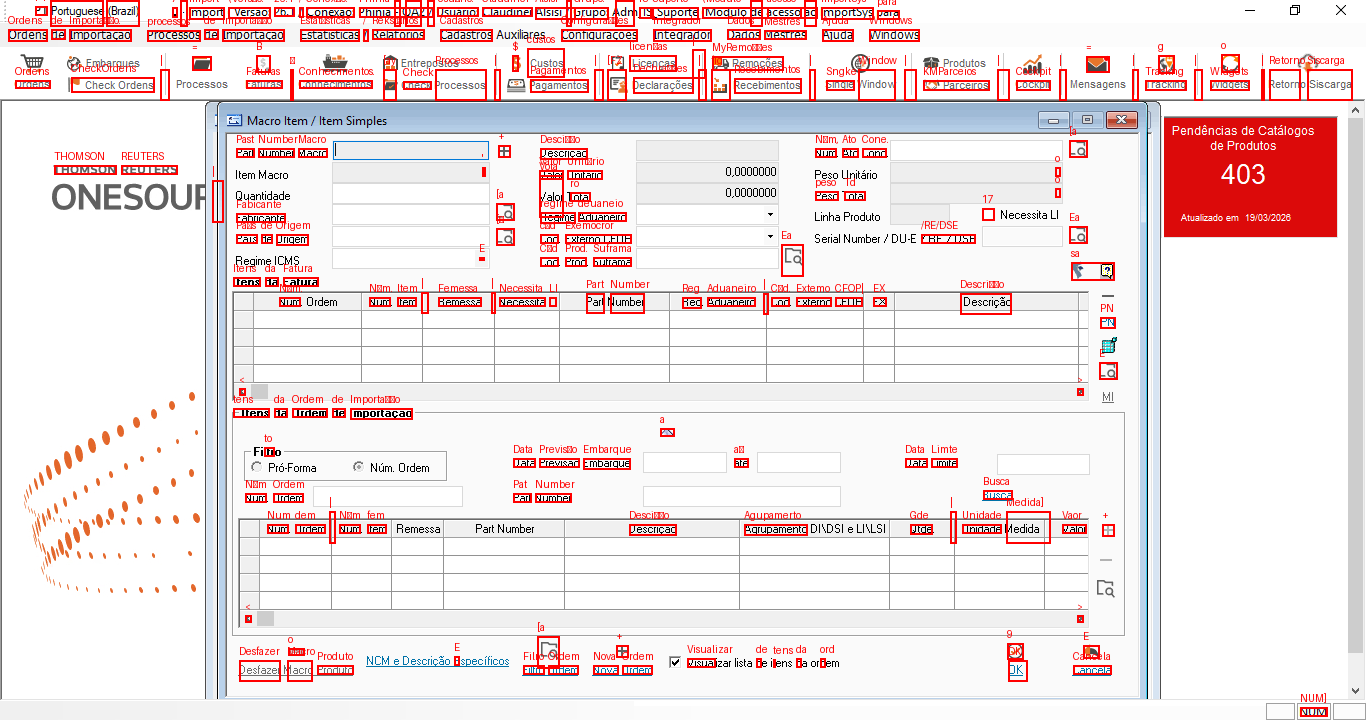
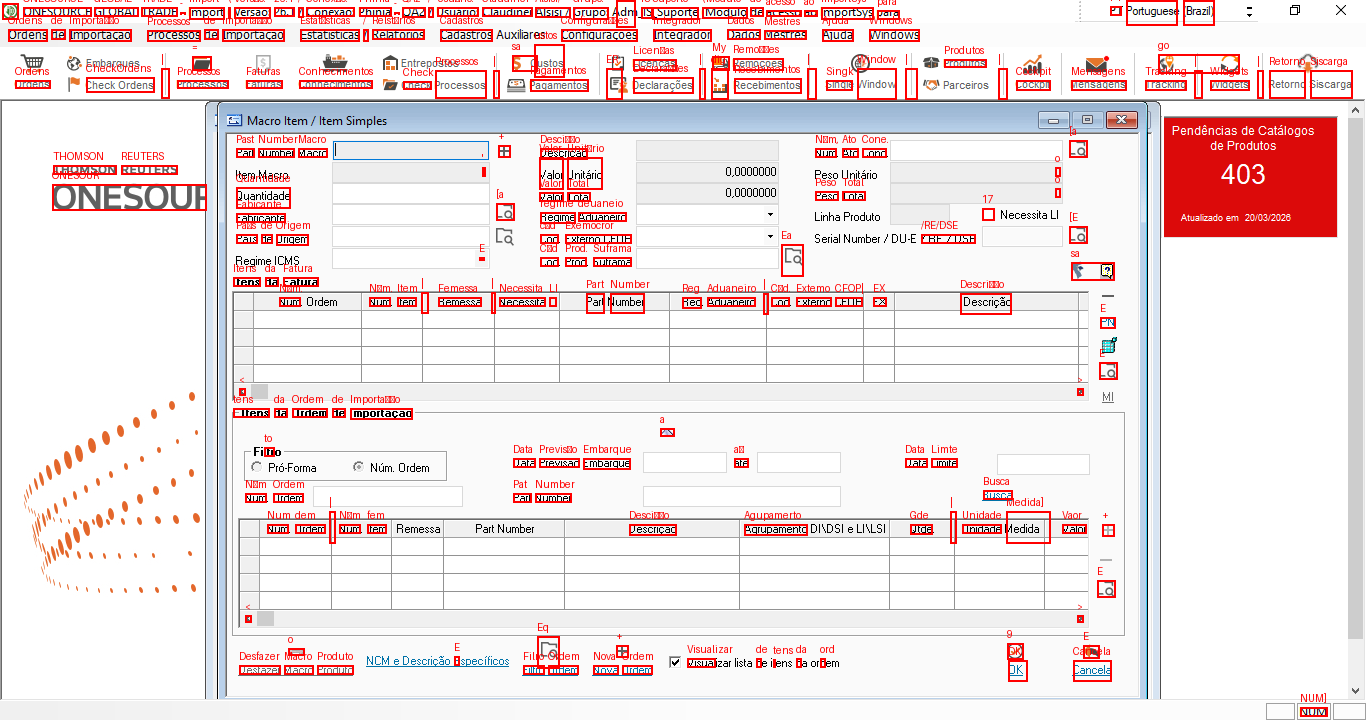
criacao da main.py, ajuste na coluna quantidade para melhor visualizacao OCR

diff --git a/main.py b/main.py
@@ -1,9 +1,81 @@
-# selecionando_elementos.ipynb
-# código para chamar o script
+# ============================================================
+# CÉLULA: ORQUESTRADOR PRINCIPAL (main.py)
+# ============================================================
+import subprocess
+import sys
+import time
 
-# Aguarda o download completar
-time.sleep(5)  # Ajuste conforme necessário
+print("="*60)
+print("🚀 INICIANDO FLUXO DE AUTOMAÇÃO PRINCIPAL")
+print("="*60)
 
-# executa_citrix.ipynb
-# código para chamar o script
+# ─────────────────────────────────────────────────────────
+# 1. Executa login_sistema.py
+# ─────────────────────────────────────────────────────────
+print("\n📍 EXECUTANDO: login_sistema.py")
+print("-"*60)
+try:
+    resultado_login = subprocess.run(
+        [sys.executable, "login_sistema.py"],
+        capture_output=False,  # Mostra o output em tempo real no terminal
+        text=True,
+        check=True             # Levanta exceção se o script retornar erro
+    )
+    print("✅ login_sistema.py concluído com sucesso!")
+except subprocess.CalledProcessError as e:
+    print(f"❌ login_sistema.py falhou com erro: {e}")
+    print(f"   Stderr: {e.stderr}")
+    sys.exit(1) # Sai do programa principal com código de erro
+except Exception as e:
+    print(f"❌ Erro inesperado ao executar login_sistema.py: {e}")
+    sys.exit(1)
 
+# ─────────────────────────────────────────────────────────
+# 2. Executa executa_citrix.py
+# ─────────────────────────────────────────────────────────
+print("\n📍 EXECUTANDO: executa_citrix.py")
+print("-"*60)
+try:
+    resultado_citrix = subprocess.run(
+        [sys.executable, "executa_citrix.py"],
+        capture_output=False,
+        text=True,
+        check=True
+    )
+    print("✅ executa_citrix.py concluído com sucesso!")
+except subprocess.CalledProcessError as e:
+    print(f"❌ executa_citrix.py falhou com erro: {e}")
+    print(f"   Stderr: {e.stderr}")
+    sys.exit(1)
+except Exception as e:
+    print(f"❌ Erro inesperado ao executar executa_citrix.py: {e}")
+    sys.exit(1)
+
+# Pequena pausa para o Citrix Workspace iniciar e a janela 'Módulos' aparecer
+print("\n⏳ Aguardando o Citrix Workspace iniciar e a janela 'Módulos' aparecer...")
+time.sleep(15) # Ajuste este tempo conforme a velocidade de inicialização do Citrix na sua máquina
+
+# ─────────────────────────────────────────────────────────
+# 3. Executa automation.py
+# ─────────────────────────────────────────────────────────
+print("\n📍 EXECUTANDO: automation.py")
+print("-"*60)
+try:
+    resultado_automation = subprocess.run(
+        [sys.executable, "automation.py"],
+        capture_output=False,
+        text=True,
+        check=True
+    )
+    print("✅ automation.py concluído com sucesso!")
+except subprocess.CalledProcessError as e:
+    print(f"❌ automation.py falhou com erro: {e}")
+    print(f"   Stderr: {e.stderr}")
+    sys.exit(1)
+except Exception as e:
+    print(f"❌ Erro inesperado ao executar automation.py: {e}")
+    sys.exit(1)
+
+print("\n" + "="*60)
+print("🎉 FLUXO DE AUTOMAÇÃO PRINCIPAL CONCLUÍDO COM SUCESSO!")
+print("="*60)

diff --git a/models/automacao_cliques.py b/models/automacao_cliques.py
@@ -1311,3 +1311,36 @@ class AutomacaoOCR:
 
         print(f"❌ Timeout: Popup 'Informação' não apareceu em {timeout}s.")
         return False
+    
+    def arrastar_coluna_quantidade(self, x_inicio_rel, y_inicio_rel, x_fim_rel, y_fim_rel, duracao_arraste=0.5, pausar=1.0):
+        """
+        Simula o clique e arraste para ajustar a largura de uma coluna na grade.
+        Útil para aumentar o campo de visualização da coluna 'Quantidade'.
+
+        Args:
+            x_inicio_rel, y_inicio_rel: Coordenadas relativas do ponto de início do arraste (onde o clique é segurado).
+            x_fim_rel, y_fim_rel: Coordenadas relativas do ponto final do arraste.
+            duracao_arraste: Duração do movimento de arraste em segundos.
+            pausar: Tempo de espera após o arraste.
+
+        Returns:
+            True se a operação foi executada, False se a janela não estiver focada.
+        """
+        print(f"\n↔ Ajustando largura da coluna (arrastar de ({x_inicio_rel}, {y_inicio_rel}) para ({x_fim_rel}, {y_fim_rel}))...")
+
+        if not self.captura.janela_atual:
+            print("❌ Nenhuma janela principal selecionada.")
+            return False
+
+        x_inicio_abs, y_inicio_abs = self.captura.obter_posicao_absoluta(x_inicio_rel, y_inicio_rel)
+        x_fim_abs, y_fim_abs       = self.captura.obter_posicao_absoluta(x_fim_rel, y_fim_rel)
+
+        print(f"🖱  Clicando e arrastando de ({x_inicio_abs}, {y_inicio_abs}) para ({x_fim_abs}, {y_fim_abs})...")
+
+        pyautogui.moveTo(x_inicio_abs, y_inicio_abs) # Move o mouse para o ponto inicial
+        pyautogui.dragTo(x_fim_abs, y_fim_abs, duration=duracao_arraste, button='left') # Clica, segura e arrasta
+
+        time.sleep(pausar)
+        self.limpar_cache_ocr()
+        print("✓ Arraste da coluna executado!")
+        return True

diff --git a/load_invoice.py b/load_invoice.py
@@ -12,10 +12,10 @@ from models.automacao_cliques import AutomacaoOCR
 gerenciador = GerenciadorItens(base_url='https://n8n2.titoonline.com.br')
 
 # Carrega os itens
-if not gerenciador.carregar_do_n8n(fatura_id=22):
+if not gerenciador.carregar_do_n8n(fatura_id=25):
     raise Exception("❌ Falha ao carregar itens do N8N")
 # ─── LIMITADOR DE TESTE ───────────────────────────────────
-gerenciador.itens = gerenciador.itens  [:4]# ← Pega apenas os 5 primeiross
+gerenciador.itens = gerenciador.itens [:2]# ← Pega apenas os 5 primeiross
 # CONTROLE DE ITENS
 print(f"✅ {gerenciador.total_itens()} itens prontos para processar")
 
@@ -45,6 +45,9 @@ num_ordem_fatura = gerenciador.get_num_ordem(gerenciador.item_atual())
 #time.sleep(1)
 # Preenche o campo de ordem UMA vez antes do loop
 auto_ocr.preencher_campo_por_clipboard(342, 494, num_ordem_fatura, pausar=1)
+# As coordenadas (955, 525) e (965, 525) são baseadas na tela 1366x768
+print("\n Ajustando largura da coluna 'Quantidade' na grade...")
+auto_ocr.arrastar_coluna_quantidade(955, 525, 972, 525, duracao_arraste=0.3, pausar=0.5)
 
 while gerenciador.tem_proximo():
 
@@ -166,10 +169,11 @@ print(f"❌ Não encontrados: {len(itens_nao_encontrados)}")
 print("="*60)
 
 # ── Envia relatório final consolidado ao N8N ──────────────
-if itens_nao_encontrados or itens_divergentes_qtde:
+if itens_nao_encontrados or itens_divergentes_qtde or itens_encontrados:
     gerenciador.enviar_relatorio_final(
         itens_nao_encontrados=itens_nao_encontrados,
-        itens_divergentes_qtde=itens_divergentes_qtde
+        itens_divergentes_qtde=itens_divergentes_qtde,
+        itens_encontrados=itens_encontrados
     )
 
 print("\n✅ TODOS OS ITENS PROCESSADOS!")

diff --git a/models/gerenciador_itens.py b/models/gerenciador_itens.py
@@ -116,7 +116,7 @@ class GerenciadorItens:
             print(f"❌ Erro ao enviar para N8N: {e}")
             return False
 
-    def enviar_relatorio_final(self, itens_nao_encontrados, itens_divergentes_qtde):
+    def enviar_relatorio_final(self, itens_nao_encontrados, itens_divergentes_qtde, itens_encontrados):
         """
         Envia relatório final consolidado ao N8N contendo:
         - Itens não encontrados no sistema
@@ -136,9 +136,11 @@ class GerenciadorItens:
             "resumo": {
                 "total_nao_encontrados" : len(itens_nao_encontrados),
                 "total_divergentes_qtde": len(itens_divergentes_qtde),
+                "total_encontrados"     : len(itens_encontrados),
             },
             "itens_nao_encontrados"  : itens_nao_encontrados,
             "itens_divergentes_qtde" : itens_divergentes_qtde,
+            "itens_encontrados"      : itens_encontrados,
         }
 
         print(f"\n📤 Enviando relatório final ao N8N...")

diff --git a/debug_qtde.py b/debug_qtde.py
@@ -12,7 +12,7 @@ regioes_teste = [
     # x_rel, y_rel, largura, altura, nome_arquivo
     #(820, 500, 140, 90, 'qtde_teste_1.png'),
     #(860, 500, 120, 90, 'qtde_teste_2.png'),
-    (900, 520, 55, 100, 'qtde_teste_3.png'),
+    (890, 520, 55, 100, 'qtde_quadro.png'),
 ]
 
 for x, y, w, h, nome in regioes_teste:
